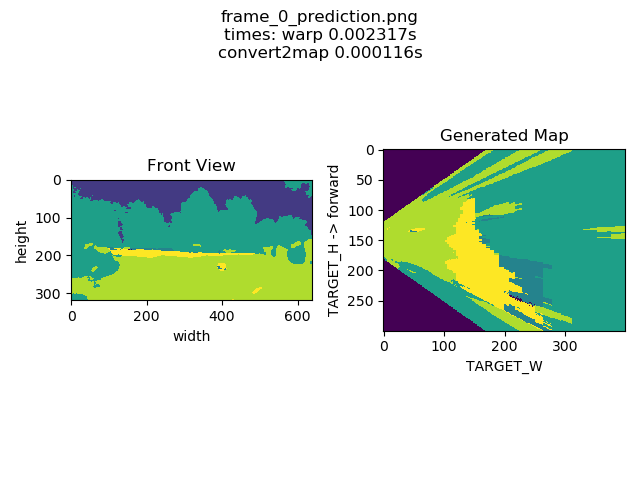
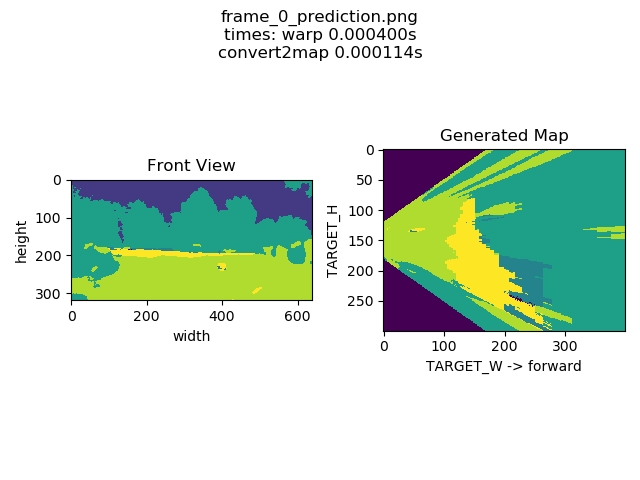
plot label

Changed region(s): [[0.5, 0.3438, 0.5312, 0.6562], [0.6562, 0.75, 0.9062, 0.7812], [0.5625, 0.0625, 0.6562, 0.125]]

diff --git a/projections/ipm/ipm.py b/projections/ipm/ipm.py
@@ -195,8 +195,8 @@ if __name__ == '__main__':
     ax[0].set_ylabel('height')
     ax[1].imshow(warped2)
     ax[1].set_title('Generated Map')
-    ax[1].set_xlabel('TARGET_W')
-    ax[1].set_ylabel('TARGET_H -> forward')
+    ax[1].set_xlabel('TARGET_W -> forward')
+    ax[1].set_ylabel('TARGET_H')
     plt.tight_layout()
     plt.savefig(output_path + img_name)
     plt.show()
